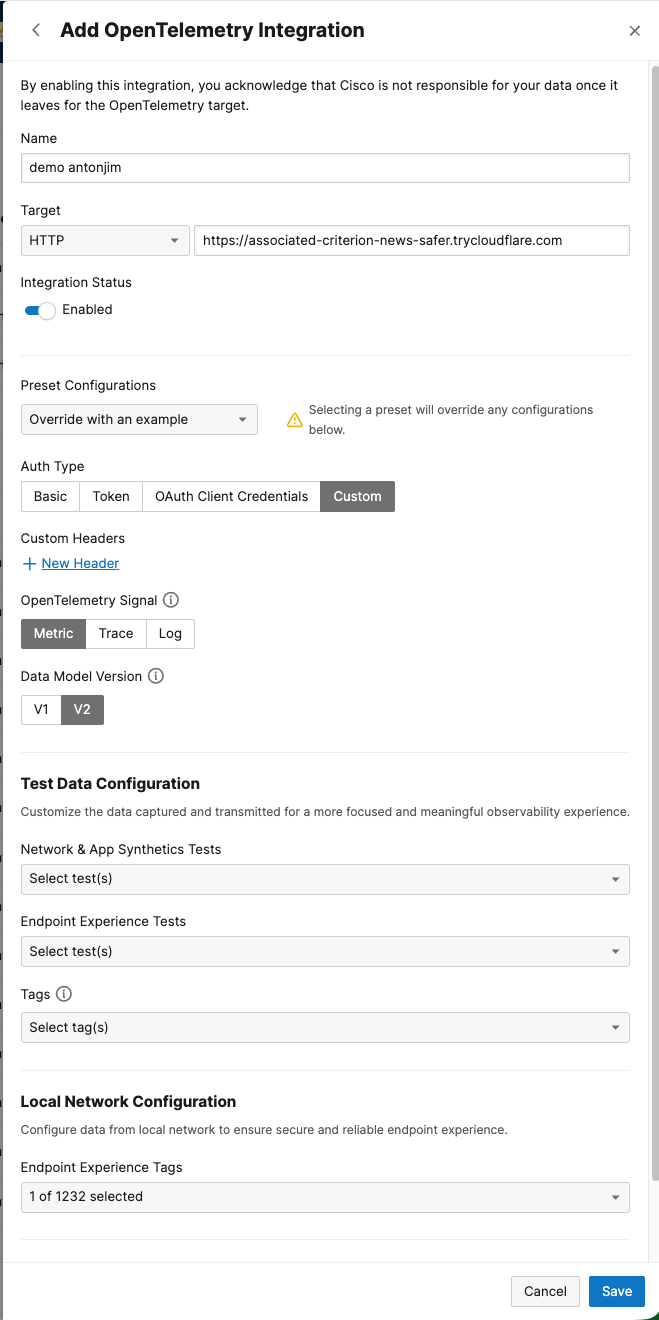
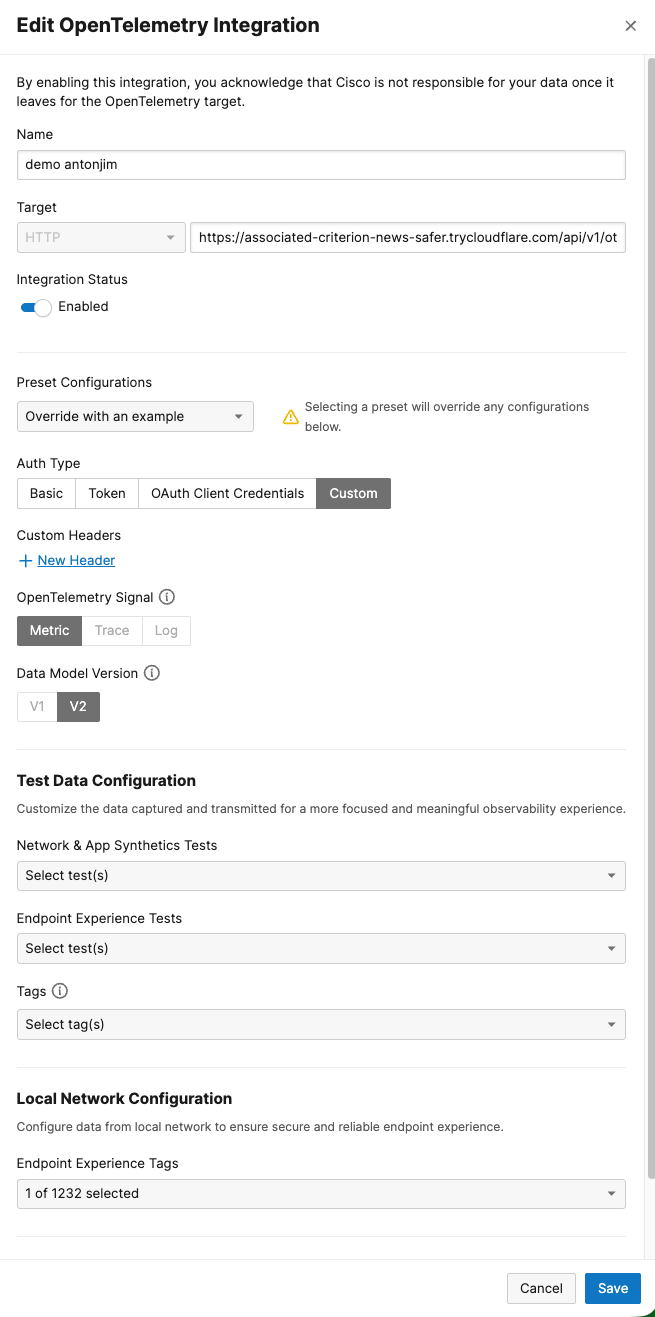
docs: Update stream configuration screenshot
- Replace the stream form image with the saved configuration capture
- Update the image description to match the edit view

diff --git a/README.md b/README.md
@@ -100,9 +100,9 @@ https://random-words.trycloudflare.com/api/v1/otlp/v1/metrics
 9. In the Endpoint Experience selection, choose one or more Endpoint Agent labels. These labels determine which agents contribute Local Network data.
 10. Save the integration.
 
-![Create a ThousandEyes OpenTelemetry metrics stream](docs/images/create-thousandeyes-stream.png)
+![Configure a ThousandEyes OpenTelemetry metrics stream](docs/images/create-thousandeyes-stream.png)
 
-The screenshot shows the stream-creation form. Ensure the Endpoint URL includes the full `/api/v1/otlp/v1/metrics` path as described above.
+The screenshot shows the saved stream configuration. Ensure the Endpoint URL includes the full `/api/v1/otlp/v1/metrics` path as described above.
 
 The integration sends all supported Endpoint Local Network categories for the selected agents. Prometheus and the supplied dashboard focus on the `Connection` metric names.
 
